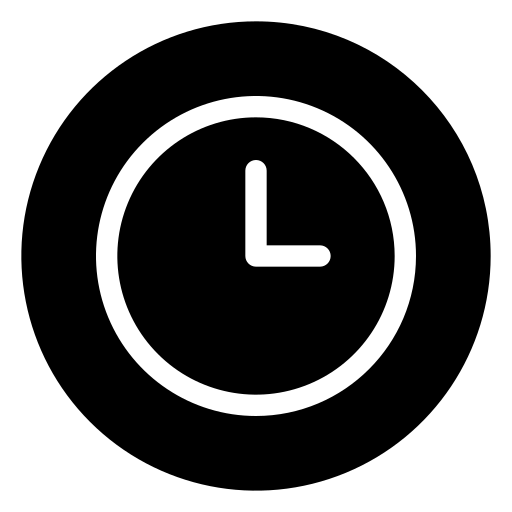
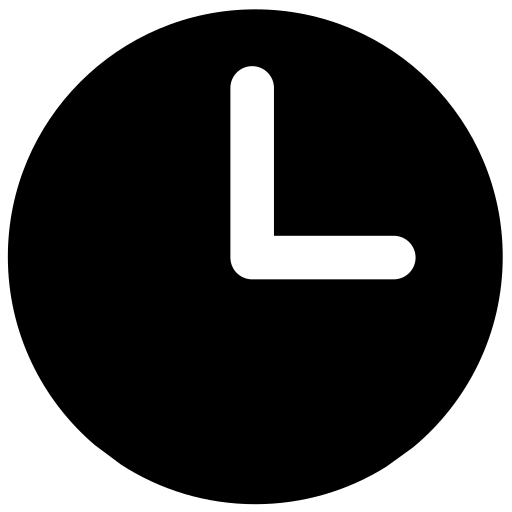
0.71

Changed region(s): [[0.1875, 0.125, 0.8125, 0.8125], [0.0, 0.0, 1.0, 1.0]]

diff --git a/src/main/java/productivityMonitor/services/SettingsService.java b/src/main/java/productivityMonitor/services/SettingsService.java
@@ -12,6 +12,19 @@ public class SettingsService {
 
     public static String localization="en";
 
+    // Пути до картинок
+    /*public static String clockImg = "/images/purple/clock-ico.png";
+    public static String pauseImg = "/images/purple/pause-ico.png";
+    public static String runImg = "/images/purple/run-ico.png";
+    public static String settingsImg = "/images/purple/settings-ico.png";*/
+
+    // Image
+    public static Image runImg = new Image(SettingsService.class.getResource("/images/purple/clock-ico.png").toExternalForm()),
+            settingsImg = new Image(SettingsService.class.getResource("/images/purple/settings-ico.png").toExternalForm()),
+            timerImg = new Image(SettingsService.class.getResource("/images/purple/clock-ico.png").toExternalForm()),
+            pauseImg = new Image(SettingsService.class.getResource("/images/purple/pause-ico.png").toExternalForm()),
+            iconImg = new Image(SettingsService.class.getResource("/images/purple/icon.png").toExternalForm());
+
     // Пути до стилей
     public static String profileStylePath = "/styles/purple/purple_profile.css";
     public static String statisticsStylePath = "/styles/purple/purple_statistics.css";
@@ -30,6 +43,7 @@ public class SettingsService {
 
     // Установка оформления
     public static void setUIColor(String color){
+        // Замена путей для стилей
         profileStylePath="/styles/"+color+"/"+color+"_profile.css";
         statisticsStylePath="/styles/"+color+"/"+color+"_statistics.css";
         authStylePath="/styles/"+color+"/"+color+"_auth.css";
@@ -43,6 +57,14 @@ public class SettingsService {
         notesStylePath="/styles/"+color+"/"+color+"_notes.css";
         settingsStylePath="/styles/"+color+"/"+color+"_settings.css";
         timerStylePath="/styles/"+color+"/"+color+"_timer.css";
+
+        // Замена путей для картинок
+        runImg=new Image(SettingsService.class.getResource("/images/"+color+"/run-ico.png").toExternalForm());
+        settingsImg = new Image(SettingsService.class.getResource("/images/"+color+"/settings-ico.png").toExternalForm());
+        timerImg = new Image(SettingsService.class.getResource("/images/"+color+"/clock-ico.png").toExternalForm());
+        pauseImg = new Image(SettingsService.class.getResource("/images/"+color+"/pause-ico.png").toExternalForm());
+        iconImg=new Image(SettingsService.class.getResource("/images/"+color+"/icon.png").toExternalForm());
+
         UIColor=color;
         saveColorToFile(color);
     }

diff --git a/src/main/java/productivityMonitor/services/StageService.java b/src/main/java/productivityMonitor/services/StageService.java
@@ -3,11 +3,14 @@ package productivityMonitor.services;
 import javafx.fxml.FXMLLoader;
 import javafx.scene.Parent;
 import javafx.scene.Scene;
+import javafx.scene.image.Image;
 import javafx.stage.Modality;
 import javafx.stage.Stage;
+import productivityMonitor.application.MainApp;
 import productivityMonitor.interfaces.ModeWindow;
 import java.io.IOException;
 import static productivityMonitor.application.MainApp.MainStage;
+import static productivityMonitor.services.SettingsService.iconImg;
 
 public class StageService {
     // Заменяет основное окно
@@ -50,6 +53,7 @@ public class StageService {
         // Создание окна
         stage.setScene(new Scene(root));
         stage.setTitle(windowTitle);
+        stage.getIcons().add(iconImg);
         stage.initOwner(MainStage);// Устанавливает владельца
         stage.initModality(Modality.WINDOW_MODAL);// Устанавливает модальность, то есть пока окно открыто, основное окно заблокировано
         stage.setResizable(isResizable);
@@ -64,6 +68,7 @@ public class StageService {
         // Создание окна
         stage.setScene(new Scene(root));
         stage.setTitle(windowTitle);
+        stage.getIcons().add(iconImg);
         stage.initOwner(MainStage);// Устанавливает владельца
         stage.initModality(Modality.WINDOW_MODAL);// Устанавливает модальность, то есть пока окно открыто, основное окно заблокировано
         stage.setResizable(isResizable);
@@ -81,6 +86,7 @@ public class StageService {
         // Создание окна
         stage.setTitle(windowTitle);
         stage.setScene(new Scene(root));
+        stage.getIcons().add(iconImg);
         stage.initOwner(MainStage);// Устанавливает владельца
         stage.initModality(Modality.WINDOW_MODAL);// Устанавливает модальность, то есть пока окно открыто, основное окно заблокировано
         stage.setResizable(isResizable);

diff --git a/src/main/java/productivityMonitor/controllers/SettingsController.java b/src/main/java/productivityMonitor/controllers/SettingsController.java
@@ -52,7 +52,7 @@ public class SettingsController {
     private Stage authStage = null;
 
     // Image
-    private final Image iconImg = new Image(getClass().getResource("/images/purple/icon.png").toExternalForm());
+    //private final Image iconImg = new Image(getClass().getResource("/images/purple/icon.png").toExternalForm());
 
     // ResourceBundle для локализации
     private ResourceBundle bundle;
@@ -233,21 +233,27 @@ public class SettingsController {
             switch (selectedColor) {
                 case "Purple":
                     setUIColor("purple");
+                    mainImageView.setImage(iconImg);
                     break;
                 case "Green":
                     setUIColor("green");
+                    mainImageView.setImage(iconImg);
                     break;
                 case "Black":
                     setUIColor("black");
+                    mainImageView.setImage(iconImg);
                     break;
                 case "Red":
                     setUIColor("red");
+                    mainImageView.setImage(iconImg);
                     break;
                 case "Blue":
                     setUIColor("blue");
+                    mainImageView.setImage(iconImg);
                     break;
                 case "White":
                     setUIColor("white");
+                    mainImageView.setImage(iconImg);
                     break;
             }
             // Очистка старых стилей и добавление нового

diff --git a/src/main/java/productivityMonitor/controllers/MainController.java b/src/main/java/productivityMonitor/controllers/MainController.java
@@ -17,7 +17,7 @@ import java.util.ResourceBundle;
 
 import static productivityMonitor.controllers.SettingsController.getLang;
 import static productivityMonitor.services.MonitoringManager.isMonitoringActive;
-import static productivityMonitor.services.SettingsService.mainStylePath;
+import static productivityMonitor.services.SettingsService.*;
 import static productivityMonitor.services.StageService.*;
 import static productivityMonitor.services.TokenManager.*;
 import static productivityMonitor.models.User.getUser;
@@ -34,11 +34,11 @@ public class MainController {
     @FXML private ImageView timerImageView;// Иконка установки таймера мониторинга
 
     // Image
-    private final Image runImg = new Image(getClass().getResource("/images/run-ico.png").toExternalForm()),
+    /*private final Image runImg = new Image(getClass().getResource("/images/run-ico.png").toExternalForm()),
             settingsImg = new Image(getClass().getResource("/images/settings-ico.png").toExternalForm()),
             timerImg = new Image(getClass().getResource("/images/clock-ico.png").toExternalForm()),
             pauseImg = new Image(getClass().getResource("/images/pause-ico.png").toExternalForm()),
-            iconImg = new Image(getClass().getResource("/images/purple/icon.png").toExternalForm());
+            iconImg = new Image(getClass().getResource("/images/purple/icon.png").toExternalForm());*/
 
     // Label
     @FXML private Label clockLabel;// Часы

diff --git a/src/main/java/productivityMonitor/controllers/RegController.java b/src/main/java/productivityMonitor/controllers/RegController.java
@@ -19,8 +19,7 @@ import java.util.ResourceBundle;
 
 import static productivityMonitor.application.MainApp.MainStage;
 import static productivityMonitor.controllers.TimerController.getLang;
-import static productivityMonitor.services.SettingsService.localization;
-import static productivityMonitor.services.SettingsService.regStylePath;
+import static productivityMonitor.services.SettingsService.*;
 import static productivityMonitor.services.StageService.replaceScene;
 import static productivityMonitor.utils.DataLoader.saveLocalizationToFile;
 
@@ -32,7 +31,7 @@ public class RegController {
     @FXML private ImageView iconImageView;
 
     // Image
-    private Image iconImage = new Image(getClass().getResource("/images/purple/icon.png").toExternalForm());
+    //private Image iconImage = new Image(getClass().getResource("/images/purple/icon.png").toExternalForm());
 
     // TextField
     @FXML private TextField loginTextField;
@@ -127,7 +126,7 @@ public class RegController {
     @FXML public void initialize(){
         setLocalization(getLang());
 
-        iconImageView.setImage(iconImage);// Установка картинки для иконки
+        iconImageView.setImage(iconImg);// Установка картинки для иконки
 
         rootVBox.getStylesheets().add(getClass().getResource(regStylePath).toExternalForm());
     }

diff --git a/src/main/java/productivityMonitor/controllers/ProfileController.java b/src/main/java/productivityMonitor/controllers/ProfileController.java
@@ -15,6 +15,7 @@ import java.util.ResourceBundle;
 
 import static productivityMonitor.application.MainApp.MainStage;
 import static productivityMonitor.controllers.TimerController.getLang;
+import static productivityMonitor.services.SettingsService.iconImg;
 import static productivityMonitor.services.SettingsService.profileStylePath;
 import static productivityMonitor.services.TokenManager.*;
 import static productivityMonitor.models.User.getUser;
@@ -40,8 +41,7 @@ public class ProfileController {
     @FXML private ImageView avatarImageView;
 
     // Image
-    private Image iconImg = new Image(getClass().getResource("/images/purple/icon.png").toExternalForm()),
-            avatarImg = new Image(getClass().getResource("/images/avatar-ico.png").toExternalForm());
+    private Image avatarImg = new Image(getClass().getResource("/images/avatar-ico.png").toExternalForm());
 
     // Нажатие кнопок навигационной области
     @FXML private void handleMainImageClick(MouseEvent event) throws IOException {

diff --git a/src/main/java/productivityMonitor/controllers/StatisticsController.java b/src/main/java/productivityMonitor/controllers/StatisticsController.java
@@ -20,6 +20,7 @@ import java.util.ResourceBundle;
 
 import static productivityMonitor.controllers.SettingsController.getLang;
 import static productivityMonitor.models.User.getUser;
+import static productivityMonitor.services.SettingsService.iconImg;
 import static productivityMonitor.services.SettingsService.statisticsStylePath;
 import static productivityMonitor.services.StageService.createScene;
 import static productivityMonitor.services.StageService.replaceMainScene;
@@ -33,7 +34,7 @@ public class StatisticsController {
     @FXML private ImageView mainImageView;// Иконка приложения
 
     // Image
-    private final Image iconImg = new Image(getClass().getResource("/images/purple/icon.png").toExternalForm());
+    //private final Image iconImg = new Image(getClass().getResource("/images/purple/icon.png").toExternalForm());
 
     // Button
     @FXML private Button profileButton;// Кнопка профиля

diff --git a/src/main/java/productivityMonitor/controllers/PlansController.java b/src/main/java/productivityMonitor/controllers/PlansController.java
@@ -33,6 +33,7 @@ import java.util.Locale;
 import java.util.ResourceBundle;
 
 import static productivityMonitor.application.MainApp.MainStage;
+import static productivityMonitor.services.SettingsService.iconImg;
 import static productivityMonitor.services.SettingsService.plansStylePath;
 import static productivityMonitor.services.StageService.createScene;
 import static productivityMonitor.services.StageService.replaceMainScene;
@@ -91,7 +92,7 @@ public class PlansController {
     private TodoList selectedList = null;
     private TodoItem selectedItem = null;
     private Stage authStage;
-    private Image iconImg = new Image(getClass().getResource("/images/purple/icon.png").toExternalForm());
+    //private Image iconImg = new Image(getClass().getResource("/images/purple/icon.png").toExternalForm());
     private ResourceBundle bundle;
 
     @FXML private void handleMainImageClick(MouseEvent event) throws IOException {

diff --git a/src/main/java/productivityMonitor/controllers/NotesController.java b/src/main/java/productivityMonitor/controllers/NotesController.java
@@ -33,6 +33,7 @@ import java.util.ResourceBundle;
 
 import static productivityMonitor.application.MainApp.MainStage;
 import static productivityMonitor.controllers.SettingsController.getLang;
+import static productivityMonitor.services.SettingsService.iconImg;
 import static productivityMonitor.services.SettingsService.notesStylePath;
 import static productivityMonitor.services.StageService.createScene;
 import static productivityMonitor.services.TokenManager.*;
@@ -133,7 +134,7 @@ public class NotesController {
         }
     }
 
-    private Image iconImg = new Image(getClass().getResource("/images/purple/icon.png").toExternalForm());
+    //private Image iconImg = new Image(getClass().getResource("/images/purple/icon.png").toExternalForm());
 
     // ResourceBundle для локализации
     private ResourceBundle bundle;

diff --git a/src/main/java/productivityMonitor/controllers/AuthController.java b/src/main/java/productivityMonitor/controllers/AuthController.java
@@ -38,7 +38,7 @@ public class AuthController {
     @FXML private ImageView iconImageView;
 
     // Image
-    private Image iconImage = new Image(getClass().getResource("/images/purple/icon.png").toExternalForm());
+    //private Image iconImage = new Image(getClass().getResource("/images/purple/icon.png").toExternalForm());
 
     // TextField
     @FXML private TextField loginTextField;
@@ -144,7 +144,7 @@ public class AuthController {
 
     @FXML public void initialize(){
         setLocalization(getLang());
-        iconImageView.setImage(iconImage);// Установка картинки для иконки
+        iconImageView.setImage(iconImg);// Установка картинки для иконки
 
         rootVBox.getStylesheets().add(getClass().getResource(authStylePath).toExternalForm());
     }

diff --git a/README.md b/README.md
@@ -182,6 +182,10 @@ v. 0.70
 - Настройка цветов теперь цветная
 - Исправлены ошибки локализации настройки мониторинга
 
+v. 0.71
+- Полностью работает смена цвета интерфейса
+- Смена иконок окон
+
 Планы:
 - Небольшие графические мелочи
 - Добавить окно для завершение мониторинга по таймеру
